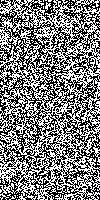
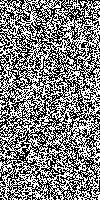
rectangle is visible on top of surface

diff --git a/src/main.rs b/src/main.rs
@@ -18,25 +18,25 @@ fn main() {
 	}
 	for x in 120..175 {
 		for y in 25..29 {
-			let pixel = imgbuf1.get_pixel(x-2-100, y);
+			let pixel = imgbuf1.get_pixel(x+2-100, y);
 			finalimg.put_pixel(x, y, *pixel);
 		}
 	}
 	for x in 120..175 {
 		for y in 175..179 {
-			let pixel = imgbuf1.get_pixel(x-2-100, y);
+			let pixel = imgbuf1.get_pixel(x+2-100, y);
 			finalimg.put_pixel(x, y, *pixel);
 		}
 	}
 	for x in 120..124 {
 		for y in 29..175 {
-			let pixel = imgbuf1.get_pixel(x-2-100, y);
+			let pixel = imgbuf1.get_pixel(x+2-100, y);
 			finalimg.put_pixel(x, y, *pixel);
 		}
 	}
 	for x in 171..175 {
 		for y in 29..175 {
-			let pixel = imgbuf1.get_pixel(x-2-100, y);
+			let pixel = imgbuf1.get_pixel(x+2-100, y);
 			finalimg.put_pixel(x, y, *pixel);
 		}
 	}
